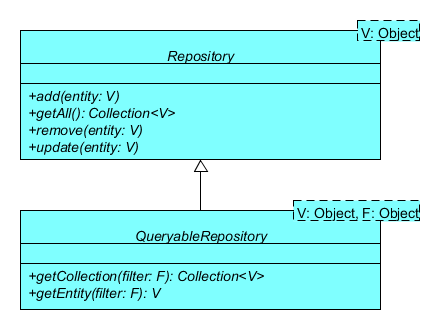
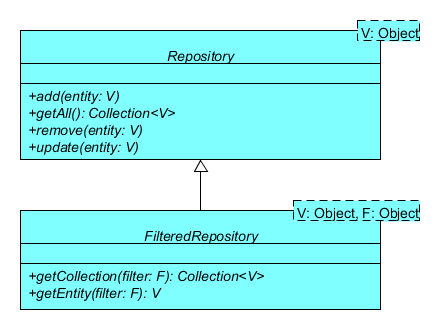
Renamed the QueryableRepository to FilteredRepository.

Changed region(s): [[0.2955, 0.697, 0.6205, 0.7576]]

diff --git a/src/main/java/com/wandrell/pattern/repository/FilteredRepository.java b/src/main/java/com/wandrell/pattern/repository/FilteredRepository.java
@@ -26,7 +26,8 @@ package com.wandrell.pattern.repository;
 import java.util.Collection;
 
 /**
- * Extension of {@code Repository} allowing querying it's contents.
+ * Extension of {@code Repository} allowing filtering it's contents to get a
+ * subset of them.
  * <p>
  * The methods added by this interface allow finding concrete sets of entities,
  * or a single concrete one, through the use of a filter.
@@ -41,10 +42,10 @@ import java.util.Collection;
  * @author Bernardo Martínez Garrido
  * @param <V>
  *            the type stored on the repository
- * @param <Q>
+ * @param <F>
  *            the type being used to filter the entities
  */
-public interface QueryableRepository<V, Q> extends Repository<V> {
+public interface FilteredRepository<V, F> extends Repository<V> {
 
     /**
      * Queries the entities in the repository and returns a subset of them.
@@ -56,11 +57,11 @@ public interface QueryableRepository<V, Q> extends Repository<V> {
      * an structure containing information to build an SQL query, or may just be
      * a predicate which the entities should validate.
      * 
-     * @param query
+     * @param filter
      *            the filter which discriminates the entities to be returned
      * @return the filtered subset of entities
      */
-    public Collection<V> getCollection(final Q query);
+    public Collection<V> getCollection(final F filter);
 
     /**
      * Queries the entities in the repository and returns only one.
@@ -78,11 +79,11 @@ public interface QueryableRepository<V, Q> extends Repository<V> {
      * <p>
      * If no entity is found, then {@code null} will be returned.
      * 
-     * @param query
+     * @param filter
      *            the filter which discriminates the entities to be returned
      * @return a single entity found by the filter, or {@code null} is no entity
      *         is found
      */
-    public V getEntity(final Q query);
+    public V getEntity(final F filter);
 
 }

diff --git a/src/main/java/com/wandrell/pattern/repository/CollectionRepository.java b/src/main/java/com/wandrell/pattern/repository/CollectionRepository.java
@@ -31,21 +31,21 @@ import java.util.LinkedList;
 import com.google.common.base.Predicate;
 
 /**
- * Collection-based implementation of {@code Repository}.
+ * Collection-based implementation of {@code FilteredRepository}.
  * <p>
  * This is meant to be the most basic form of {@code Repository}, used when
  * there is no need of anything fancy such as persistence.
  * <p>
- * The {@link #getCollection(Predicate) getCollection} method works through the
- * use of a Guava {@code Predicate}. All the entities validating this predicate
- * will be returned.
+ * The filters required by the {@code FilteredRepository} interfaces are
+ * instances of the Guava {@code Predicate} class. All the entities validating
+ * the predicate being used as filter will be returned.
  * 
  * @author Bernardo Martínez Garrido
  * @param <V>
  *            the type stored on the repository
  */
 public final class CollectionRepository<V> implements
-        QueryableRepository<V, Predicate<V>> {
+        FilteredRepository<V, Predicate<V>> {
 
     /**
      * The entities stored in the repository.

diff --git a/src/test/java/com/wandrell/pattern/testing/test/unit/repository/TestUpdateCollectionRepository.java b/src/test/java/com/wandrell/pattern/testing/test/unit/repository/TestUpdateCollectionRepository.java
@@ -35,7 +35,7 @@ import org.testng.annotations.Test;
 import com.google.common.base.MoreObjects;
 import com.google.common.base.Predicate;
 import com.wandrell.pattern.repository.CollectionRepository;
-import com.wandrell.pattern.repository.QueryableRepository;
+import com.wandrell.pattern.repository.FilteredRepository;
 import com.wandrell.pattern.repository.Repository;
 
 /**
@@ -55,7 +55,7 @@ public final class TestUpdateCollectionRepository {
     /**
      * The repository being tested.
      */
-    private QueryableRepository<TestClass, Predicate<TestClass>> repository;
+    private FilteredRepository<TestClass, Predicate<TestClass>> repository;
 
     /**
      * This is a test class for testing the {@code Repository} using a class

diff --git a/src/test/java/com/wandrell/pattern/testing/test/unit/repository/TestCollectionRepository.java b/src/test/java/com/wandrell/pattern/testing/test/unit/repository/TestCollectionRepository.java
@@ -33,7 +33,7 @@ import org.testng.annotations.Test;
 
 import com.google.common.base.Predicate;
 import com.wandrell.pattern.repository.CollectionRepository;
-import com.wandrell.pattern.repository.QueryableRepository;
+import com.wandrell.pattern.repository.FilteredRepository;
 import com.wandrell.pattern.repository.Repository;
 
 /**
@@ -64,7 +64,7 @@ public final class TestCollectionRepository {
     /**
      * The repository being tested.
      */
-    private QueryableRepository<String, Predicate<String>> repository;
+    private FilteredRepository<String, Predicate<String>> repository;
 
     /**
      * Default constructor.
